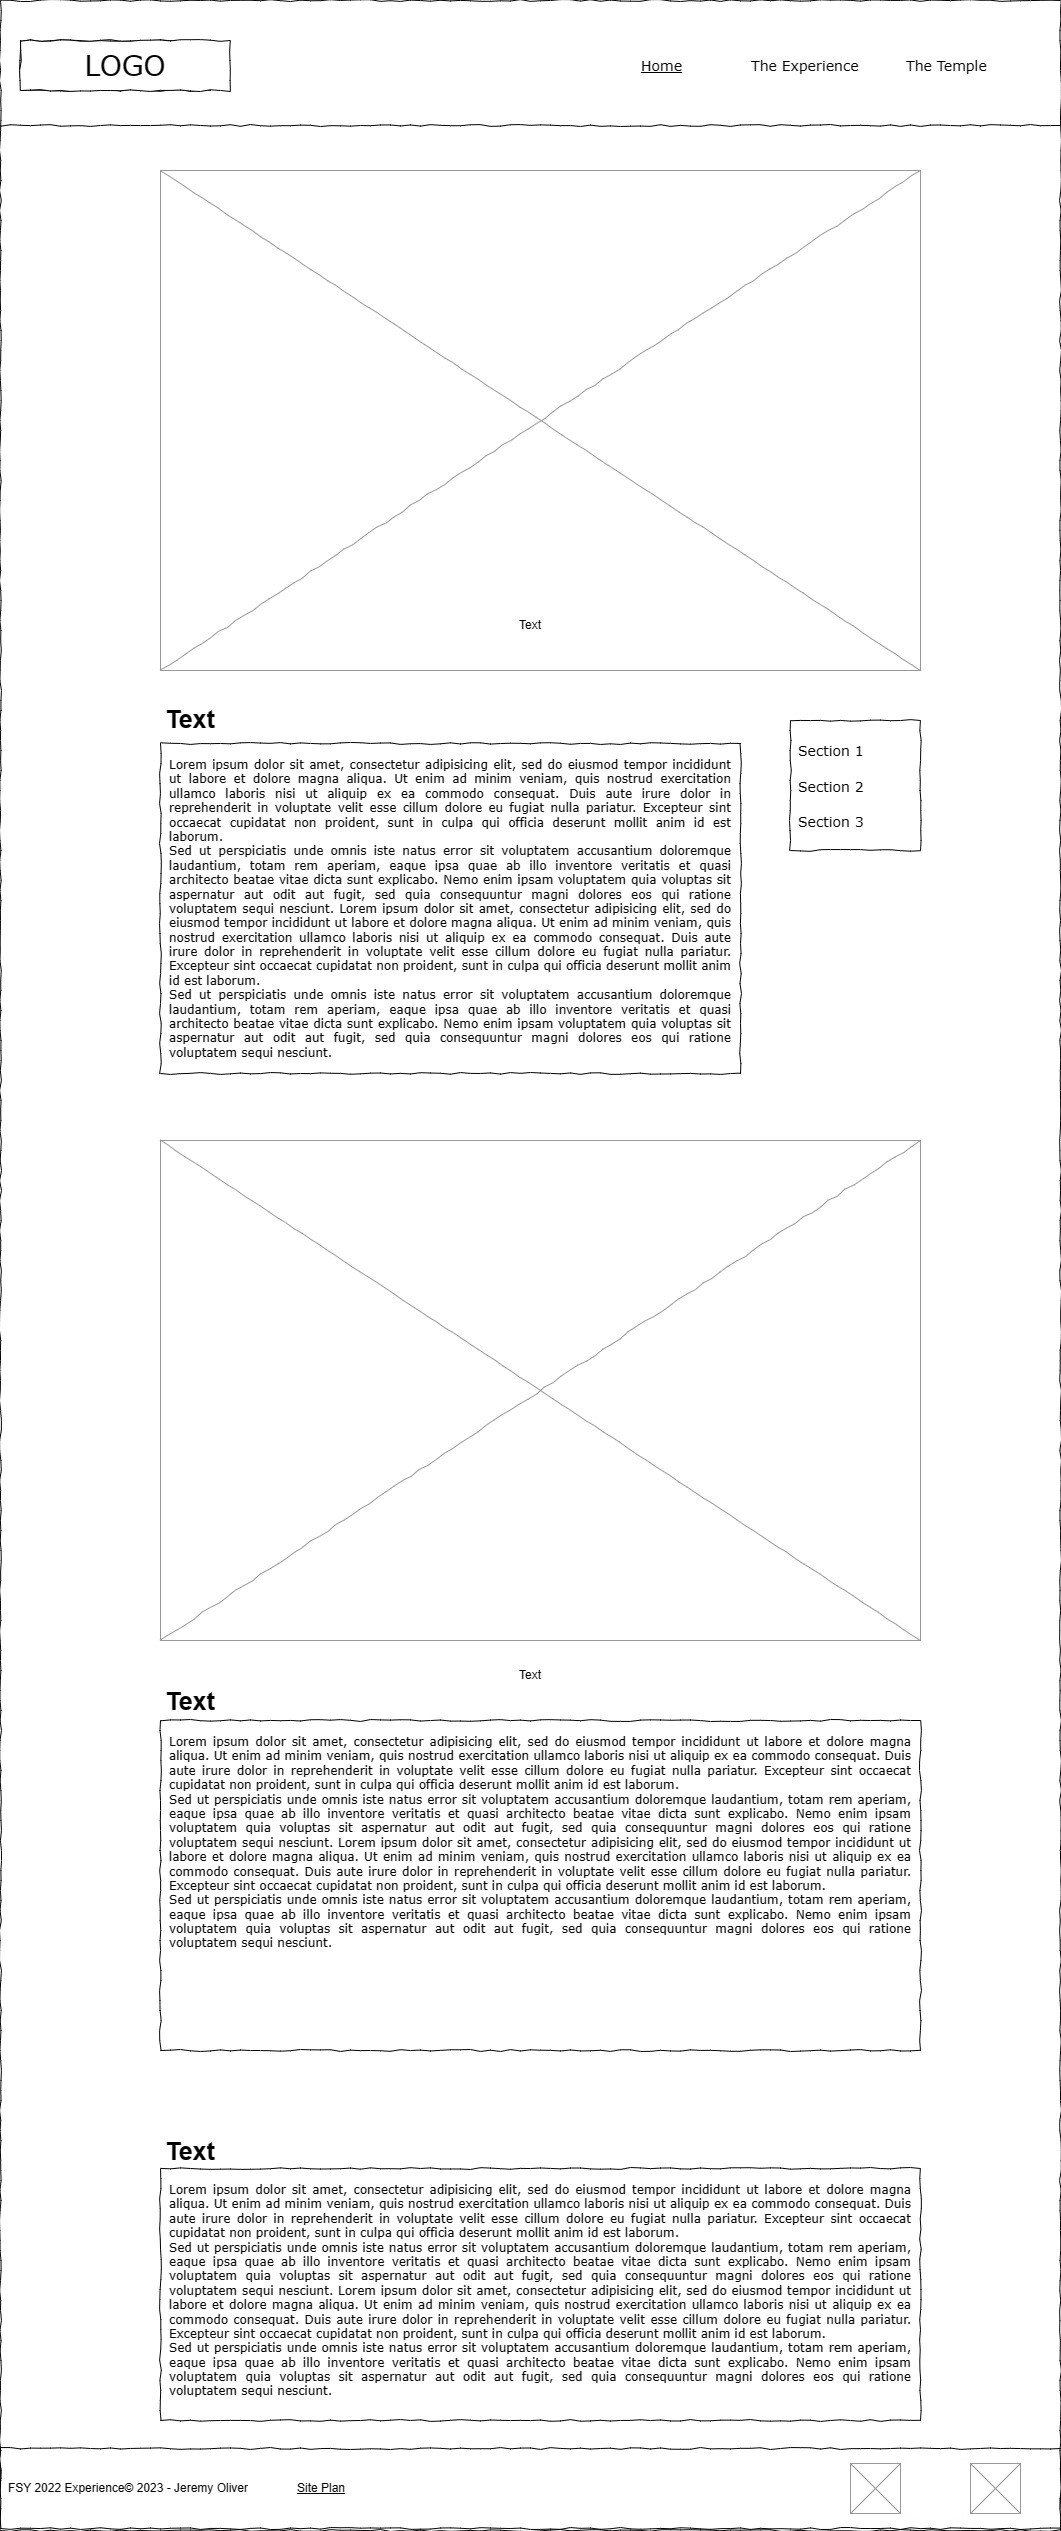
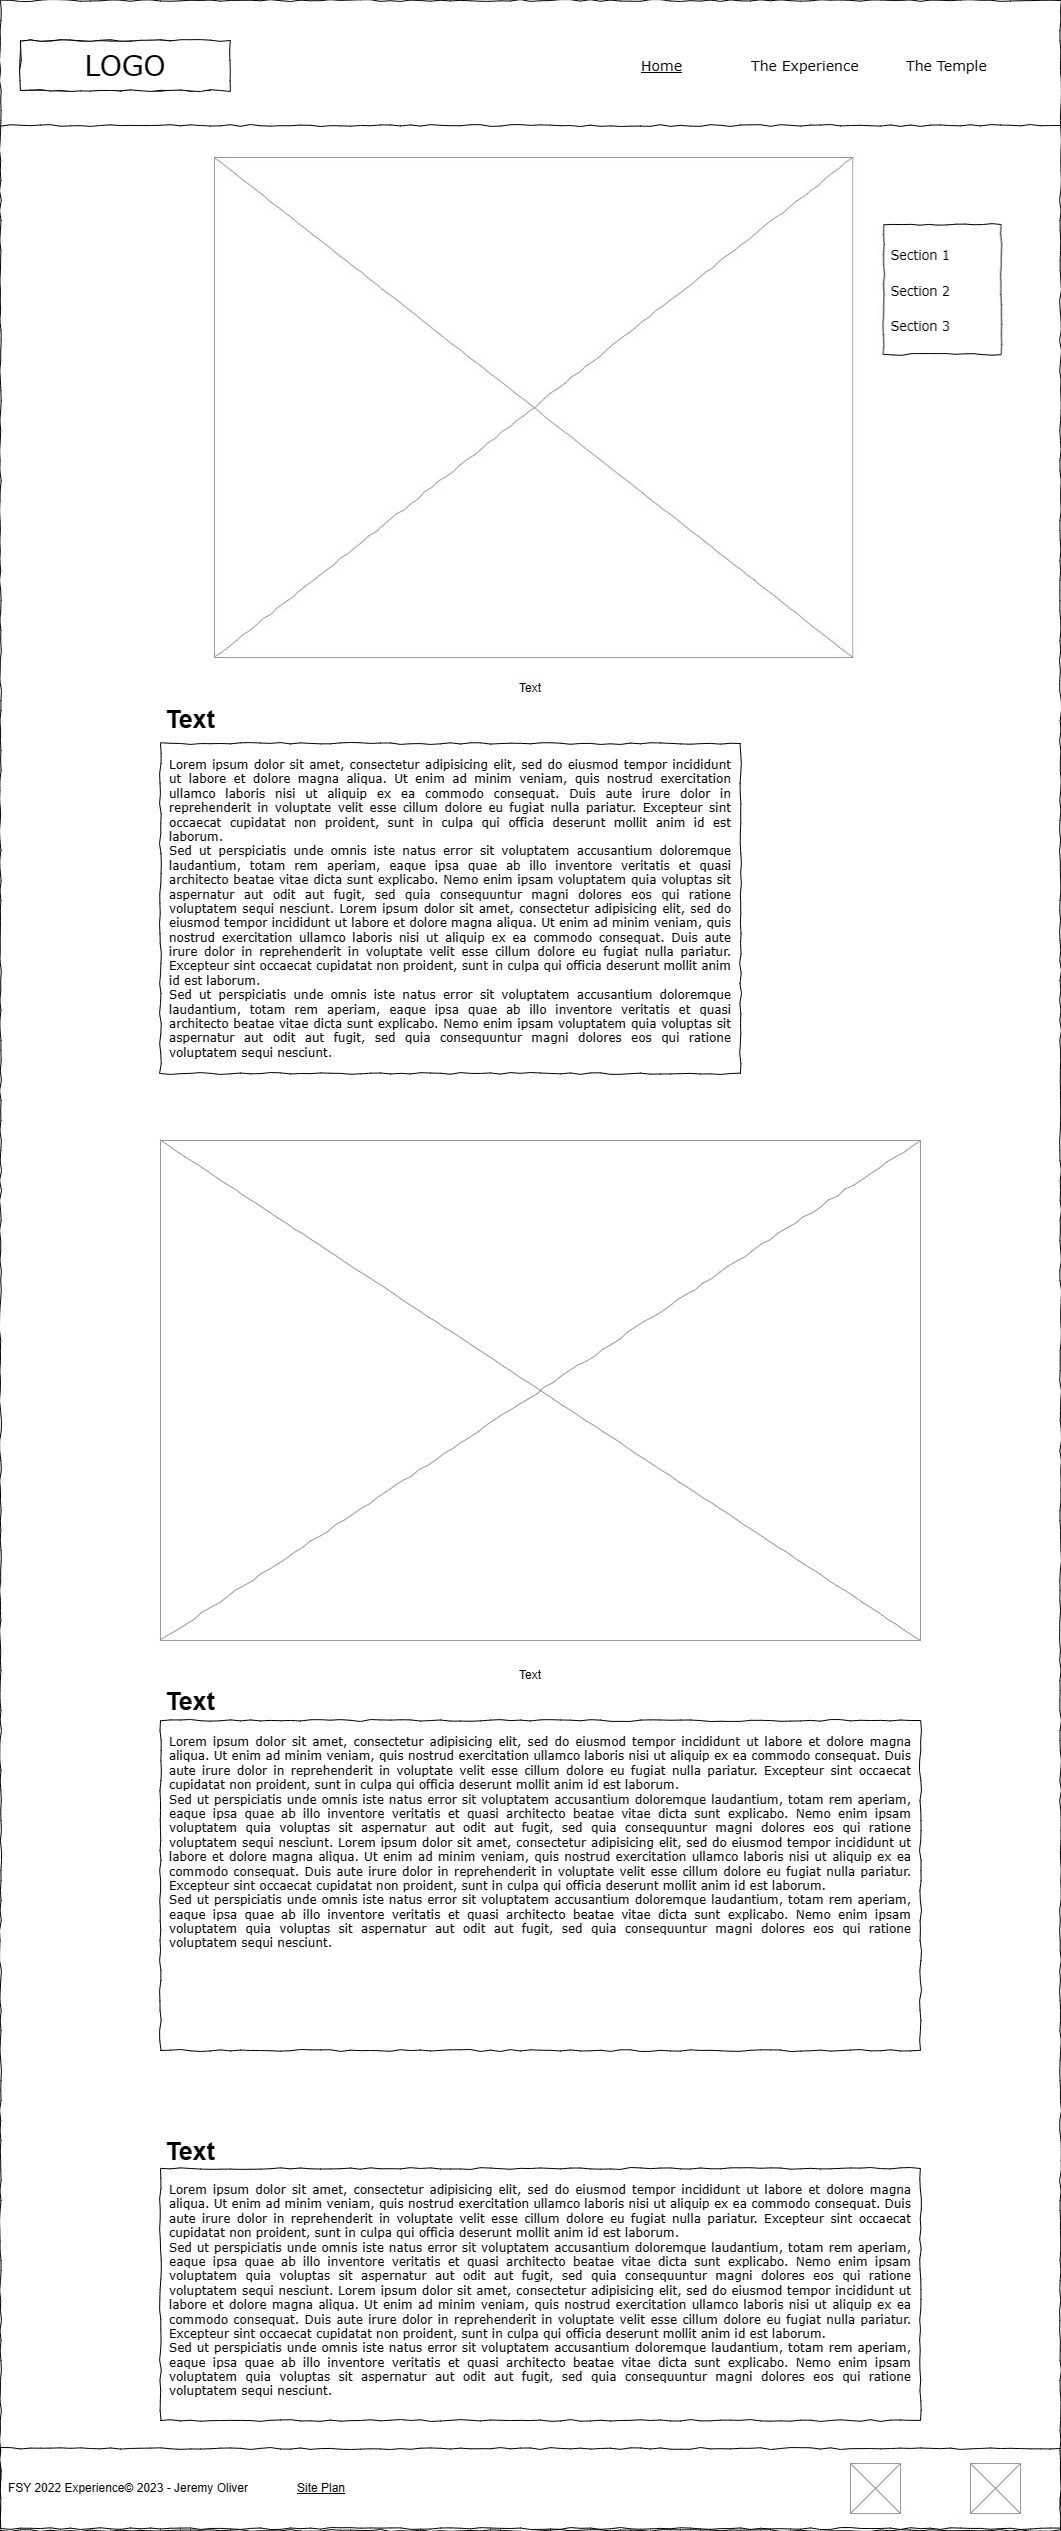
home page css

Changed region(s): [[0.8398, 0.0936, 0.8709, 0.1561], [0.7776, 0.2809, 0.8087, 0.3121]]

diff --git a/fsyconference2022/styles/styles.css b/fsyconference2022/styles/styles.css
@@ -1,0 +1,239 @@
+/*   Import the fonts   */
+@import url('https://fonts.googleapis.com/css2?family=Cinzel:wght@500&family=Lora&display=swap');
+
+
+/* Root rules to apply to all aspects of the CSS */
+:root {
+
+    --primary-color: #d7cec7;
+    --secondary-color: #3d3d3d;
+    --accent1-color: #76323f;
+    --accent2-color: #c09f80;
+    --accent3-color: #3d3d3d;
+
+
+    /* change the values below to your chosen font(s) */
+    --heading-font: "Cinzel", serif;
+    --paragraph-font: "Lora",serif;
+
+    /* these colors below should be chosen from among your palette colors above */
+    --headline-color-on-white: #76323f;
+    /* headlines on a white background */
+    --headline-color-on-color: #76323f;
+    /* headlines on a colored background */
+    --paragraph-color-on-white: #3d3d3d;
+    /* paragraph text on a white background */
+    --paragraph-color-on-color: #76323f;
+    /* paragraph text on a colored background */
+    --paragraph-background-color: #d7cec7;
+    --nav-link-color: #3d3d3d;
+    --nav-background-color: #d7cec7;
+    --nav-hover-link-color: #76323f;
+    --nav-hover-background-color: #c09f80;
+}
+
+/****************************************************************
+*
+* Default tag properties *
+*
+*****************************************************************/
+body {
+    font-family: var(--paragraph-font);
+    font-size: 20px;
+    color: var(--accent3-color);
+    background-color: #f1f1f1;
+
+}
+body, html {
+    margin: 0;
+    padding: 0;
+  }
+  aside {
+    position: fixed;
+    top: 200px;
+    right: 0;
+    width: 200px;
+    background-color: #f1f1f1;
+  }
+  
+  aside ul {
+    list-style-type: none;
+    padding: 0;
+    
+  }
+  
+  aside ul li {
+    padding: 10px;
+  }
+
+
+h2,
+h4,
+h5,
+h6 {
+    font-family: var(--heading-font);
+    font-weight: 700;
+    color: var(--secondary-color);
+}
+
+h1 {
+    font-size: 2.5em;
+    text-align: center;
+    font-family: var(--heading-font);
+    font-weight: 700;
+    color: var(--headline-color-on-white);
+}
+
+h2 {
+    font-size: 2em;
+}
+
+h3 {
+    font-size: 1.75em;
+    font-family: var(--heading-font);
+    font-weight: 700;
+    color: var(--headline-color-on-white);
+}
+
+h4 {
+    font-size: 1.5em;
+}
+
+h5 {
+    font-size: 1.25em;
+}
+
+h6 {
+    font-size: .75em;
+}
+
+#section-image img{
+    display: block;
+    margin: 0 auto;
+    padding-top: 100px;
+    width: 500px;
+    height: auto;
+}
+#section-image{
+    text-align: center;
+}
+#image-caption {
+    margin-top: 10px;
+    text-align: center;
+}
+
+p {
+    padding: 0;
+    margin: 0;
+}
+
+a {
+    text-decoration: none;
+}
+
+
+/****************************************************************
+* *
+* default properties for all pages *
+* *
+*****************************************************************/
+#content {
+    
+    margin: 0 auto;
+}
+
+#hero-img img{
+    width: 50%;
+    display: block;
+    margin: 0 auto;
+    text-align: center;
+}
+.logo {
+    width: 180px;
+}
+#logo_link {
+    padding-top: 5px;
+    justify-self: center;
+    align-self: center;
+}
+main{
+    max-width: 1600px ;
+    margin: 0  auto;
+}
+
+
+/****************************************************************
+* *
+* header area properties *
+* *
+*****************************************************************/
+header {
+    display: grid;
+    grid-template-columns: 150px auto;
+    align-items: center;
+    background-color: var(--nav-background-color);
+    padding: 0px;
+}
+
+nav {
+    display: flex;
+    justify-content: flex-end;
+}
+
+
+.nav-item {
+    color: var(--primary-color);
+    padding: 1em;
+}
+nav a {
+    padding:1em;
+    min-width: 120px;
+    text-decoration: none;
+    padding: 50px;
+    text-align: center;
+  
+}
+nav a:hover {
+    color: var(--nav-hover-link-color);
+    background-color: var(--nav-hover-background-color);
+  }
+nav a:link, nav a:visited {
+    color: var(--nav-hover-link-color);
+  }
+
+/****************************************************************
+* *
+* footer area properties *
+* *
+*****************************************************************/
+footer {
+    background-color: #3e3e3e;
+    color: var(--accent2-color);
+    font-size: 1rem;
+    padding-top: 15px;
+    margin-top: 200px;
+    display: flex;
+    justify-content: space-around;
+    align-items: center;
+}
+footer .social img {
+    padding-top: 10px;
+    padding-bottom: 15px;
+    
+
+}
+footer a:hover {
+    color: #f9f7f0;
+    text-decoration: underline;
+}
+footer a {
+    color: #f9f7f0;
+    text-decoration: none;
+}
+
+.social {
+    display: grid;
+    grid-template-columns: repeat(3, 100px);
+    
+
+}

diff --git a/fsyconference2022/index.html b/fsyconference2022/index.html
@@ -4,6 +4,7 @@
     <meta charset="UTF-8">
     <meta name="viewport" content="width=device-width, initial-scale=1.0">
     <title>FSY Conference Home</title>
+    <link rel="stylesheet" href="styles/styles.css">
 </head>
 <body>
     <div id="content">
@@ -16,12 +17,13 @@
                 <a href="the-experience.html">The Experience</a>
                 <a href="the-temple.html">The Temple</a>
             </nav> 
-            <h1>Home</h1>
+            
         </header>
         <main>
             <div id="hero-img">
+                <h1>Home</h1>
                 <img src="images/fsylogo.png" alt="FSY hero">
-                <p>FSY 2022 Theme</p>
+                <p id="image-caption">FSY 2022 Theme</p>
             </div>
             <aside>
                 <h3>Jump to Section:</h3>
@@ -31,24 +33,24 @@
 				    <li><a href="#section3">What to expect?</a></li>
 			    </ul>
             </aside>
-            <section id="section1">
+            <section >
                 
-                <h3>What is FSY?</h3>
-                <p>
+                <h3 id="section1">What is FSY?</h3>
+                <p >
                     The youth of The Church of Jesus Christ of Latter-Day Saints might've already heard about FSY, if it's your first-time hearing about it or just want to know more, keep reading! FSY or For the Strength of Youth conference is usually a 5-day event that is geared towards helping the youth have fun and grow spiritually with other youth who share their same beliefs.
 
 
                 
                  </p>
             </section>
-            <section id="section2">
+            <section >
                 <div id="section-image">
                     <img src="images/fsybooklet.jpeg" alt="FSY Booklet">
-                    <p>FSY Booklet</p>
+                    <p id="image-caption">FSY Booklet</p>
                 </div>
             
                 <h3>FSY Booklet</h3>
-                <p>
+                <p id="section2">
                     The FSY booklet was published by the church to guide youth to make the right choices, it covers topics such as dating, agency, dress and appearance, education, entertainment, media, family, friends, gratitude, honesty and integrity, language, music and dancing, physical and emotional health, repentance, Sabbath day observance, service, sexual purity, tithes and offerings, work and self-reliance. At FSY, you will learn more about these principles and how to apply them in your life.
                 </p>
             </section>

diff --git a/fsyconference2022/site-plan.html b/fsyconference2022/site-plan.html
@@ -31,7 +31,7 @@
       <h2>Branding</h2>
       <h3>Website Logo</h3>
       <!-- Replace this with some sort of logo for your site.  A logo can be as simple as the name of your site in a nice font :) -->
-      <img src="images/logoExperience.png" alt="Logo image">
+      <img src="images/logojourney.png" alt="Logo image">
       <hr>
       <h2>
         Style Guide
